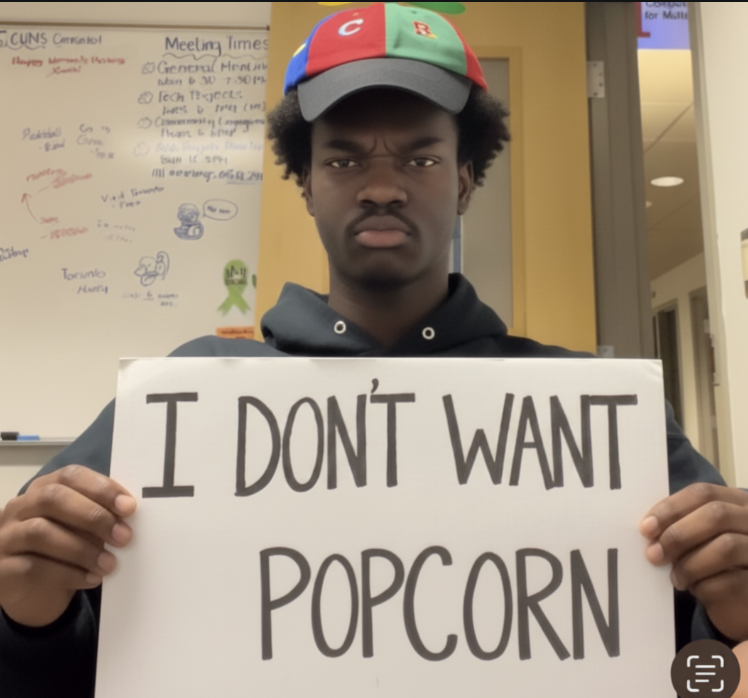
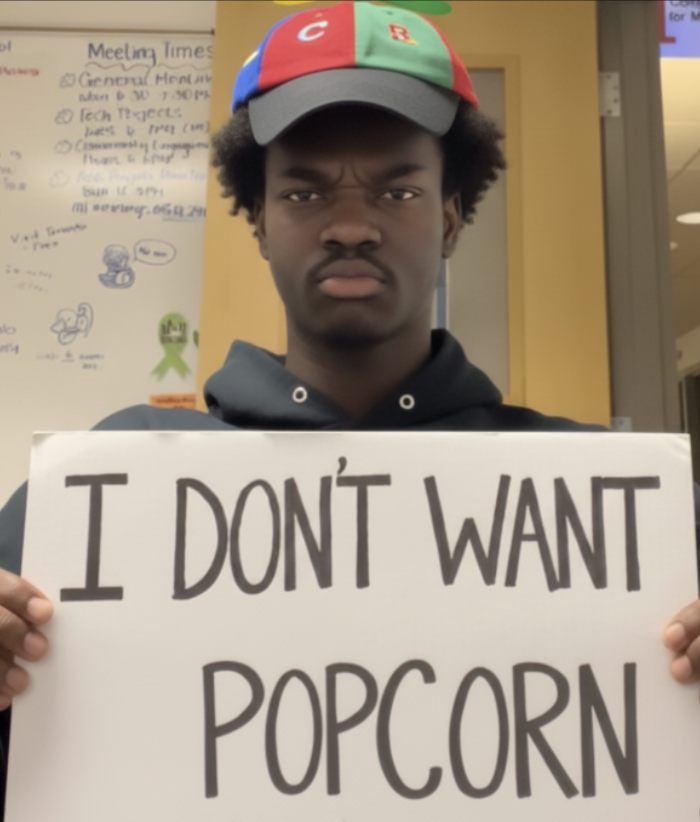
fixing pr requested changes

diff --git a/client/src/components/imagine26/components/TeammateVideo.js b/client/src/components/imagine26/components/TeammateVideo.js
@@ -48,7 +48,6 @@ const TeammateVideo = (props) => {
      
     //once we have all videos of teammates typing uncomment this line
     // setVideoSrc(typingVideoPaths[teammateId] || typingVideoPaths[0])
-
       const teammateReactionVideos = groupVideoPaths[teammateId] || groupVideoPaths[0];
       console.log(teammateReactionVideos[group]);
       setVideoSrc(teammateReactionVideos[group] || teammateReactionVideos.A);
@@ -85,7 +84,6 @@ const TeammateVideo = (props) => {
 
   return (
     <div 
-      // className="tw-absolute tw-top-[3.4%] tw-right-1 tw-p-2 tw-pointer-events-none tw-bg-white tw-border-solid tw-border-[1px] tw-rounded-lg tw-max-h-[600px]"
       className={`${modeClasses}  tw-p-2 tw-bg-white tw-border-solid tw-border-[1px] tw-rounded-lg`}
     >
       <p className="tw-mb-3">
@@ -98,7 +96,6 @@ const TeammateVideo = (props) => {
         autoPlay
         loop
         muted
-        // className={`tw-w-full tw-h-[250px] tw-object-cover tw-shadow-lg tw-rounded-lg`}
         className={`tw-w-full tw-object-cover tw-rounded-lg ${status == 'chatroom' ? 'tw-aspect-video tw-h-[220px]' : 'tw-h-[200px]'}`}
       />
       

diff --git a/client/src/components/imagine26/pages/ChatRoom.js b/client/src/components/imagine26/pages/ChatRoom.js
@@ -25,7 +25,6 @@ const ChatRoom = () => {
             expression: "THAT IS A FAKE IMAGE. I NEVER SAID THAT !!"
     }
 
-    // const contentSizing = "tw-flex tw-flex-col tw-items-center tw-justify-between tw-gap-5 tw-border tw-rounded-xl tw-w-[46vw] tw-h-[39vw] xxl:tw-h-[600px] xxl:tw-w-[800px] tw-pt-[2rem] tw-pb-10 tw-mx-auto";    
     const contentSizing = "tw-flex tw-flex-col tw-items-center tw-justify-between tw-border tw-rounded-xl";    
     return (
         <>
